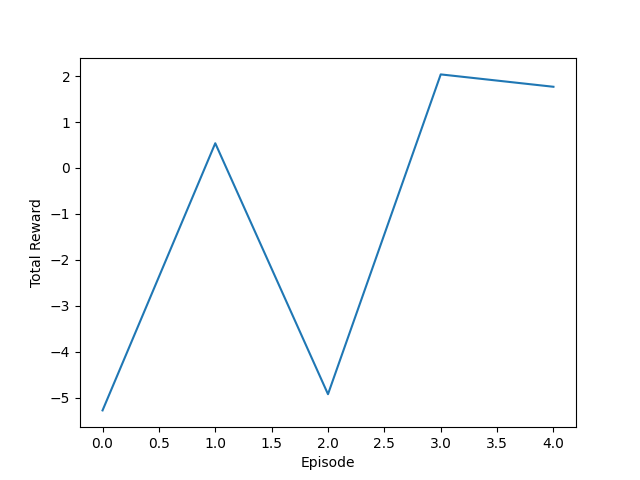
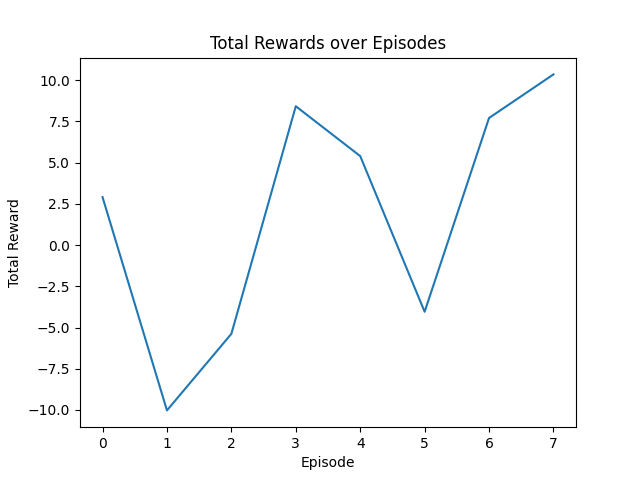
updating env

diff --git a/deep_q.py b/deep_q.py
@@ -1,151 +1,279 @@
 
+import matplotlib.pyplot as plt
 import numpy as np
 import random
 import tensorflow as tf
+import os  # To handle directory creation
+
+# Parameters
+total_steps = 100               # Total steps per episode
+gamma = 0.95                  # Discount factor for future rewards
+epsilon = 1.0                 # Initial exploration rate
+epsilon_decay = 0.995         # Decay rate for exploration probability
+epsilon_min = 0.01            # Minimum exploration probability
+batch_size = 32               # Batch size for training
+episodes = 8                  # Number of episodes to train
+target_update_freq = 5        # Frequency to update the target network
+
+# Ensure the results directory exists
+if not os.path.exists('results'):
+    os.makedirs('results')
 
 # Simple Trading Environment
-
-
 class SimpleTradingEnv:
     def __init__(self):
-        self.account_value = 10000
-        self.current_step = 0
-        self.current_price = 100  # Starting price
-        self.done = False
-        self.position = 0
+        self.initial_account_value = 10000
+        self.reset()
 
     def reset(self):
-        self.account_value = 10000
-        self.current_price = 100
+        """Resets the environment to the initial state."""
+        self.account_value = self.initial_account_value
+        self.current_price = 100  # Starting price
         self.current_step = 0
         self.done = False
-        return self.current_price
+        self.position = 0        # 0: No position, 1: Long position
+        self.entry_price = None  # Price at which the position was opened
+        return np.array([self.current_price])
 
     def step(self, action):
+        """
+        Takes an action (Buy, Sell, Hold) and updates the environment state.
+        Returns the next state, reward, done flag, and info dictionary.
+        """
         # Simulate price change
         self.current_price += np.random.randn()
         self.current_step += 1
 
-        if (action == 0):  # Buy
-            if (self.position == 0):
+        # Record whether a trade was executed
+        trade_executed = False
+        trade_action = None  # Will be 'Buy' or 'Sell' if a trade occurs
+
+        reward = 0  # Default reward
+
+        # Define actions
+        # 0: Buy
+        # 1: Sell
+        # 2: Hold
+        if action == 0:  # Buy
+            if self.position == 0:
                 self.position = 1
-                self.account_value -= self.current_price
-        elif (action == 1):  # Sell
-            if (self.position == 1):
+                self.entry_price = self.current_price
+                self.account_value -= self.current_price  # Deduct the cost
+                trade_executed = True
+                trade_action = 'Buy'
+                # No immediate reward on buying
+            else:
+                # Trying to buy when already in position; no trade executed
+                pass
+        elif action == 1:  # Sell
+            if self.position == 1:
                 self.position = 0
-                self.account_value += self.current_price
-        else:
-            pass
+                self.account_value += self.current_price  # Add the proceeds
+                trade_executed = True
+                trade_action = 'Sell'
+                # Calculate profit or loss from the trade
+                profit_loss = self.current_price - self.entry_price
+                reward = profit_loss
+                self.entry_price = None  # Reset entry price
+            else:
+                # Trying to sell when not in position; no trade executed
+                pass
+        elif action == 2:  # Hold
+            pass  # Do nothing
 
-        self.account_value = self.account_value + \
-            (self.position * self.current_price)
+        # Calculate net liquidation value
+        self.net_liq_val = self.account_value + (self.position * self.current_price)
 
-        # Reward function (placeholder, needs a proper strategy)
-        reward = self.account_value
-
-        if self.current_step > 5:
+        # Check if the episode is done
+        if self.current_step >= total_steps:
             self.done = True
+            # If holding a position, need to close it at the end of the episode
+            if self.position == 1:
+                # Sell the position
+                self.position = 0
+                self.account_value += self.current_price  # Add the proceeds
+                trade_executed = True
+                trade_action = 'Sell'
+                # Calculate profit or loss from the trade
+                profit_loss = self.current_price - self.entry_price
+                reward += profit_loss  # Add to any existing reward
+                self.entry_price = None
 
-        return self.current_price, reward, self.done, {}
+        # Include trade information in info dictionary
+        info = {'trade_executed': trade_executed, 'trade_action': trade_action}
+
+        return np.array([self.current_price]), reward, self.done, info
 
 # Create the DQN Model
-
-
 def create_model():
+    """
+    Builds a Deep Q-Network model using Keras.
+    """
     model = tf.keras.Sequential([
         tf.keras.layers.Dense(24, activation='relu', input_shape=(1,)),
         tf.keras.layers.Dense(24, activation='relu'),
-        tf.keras.layers.Dense(3, activation='linear')  # 2 actions: Buy, Sell
+        tf.keras.layers.Dense(3, activation='linear')  # 3 actions: Buy, Sell, Hold
     ])
     model.compile(loss='mse', optimizer='adam')
     return model
 
 # Replay Buffer
-
-
 class ReplayBuffer:
-    def __init__(self):
+    def __init__(self, max_size=10000):
         self.buffer = []
+        self.max_size = max_size
 
     def add(self, experience):
+        """
+        Adds a new experience to the buffer.
+        If the buffer is full, it removes the oldest experience.
+        """
         self.buffer.append(experience)
+        if len(self.buffer) > self.max_size:
+            self.buffer.pop(0)
 
     def sample(self, batch_size):
+        """
+        Samples a batch of experiences from the buffer.
+        """
         return random.sample(self.buffer, batch_size)
 
 # Training Function
-
-
 def train(replay_buffer, model, target_model, batch_size):
+    """
+    Trains the model using experiences from the replay buffer.
+    """
+    if len(replay_buffer.buffer) < batch_size:
+        return
+
     minibatch = replay_buffer.sample(batch_size)
-    for state, action, reward, next_state, done in minibatch:
-        target = reward
-        if not done:
-            target = reward + 0.95 * \
-                np.amax(target_model.predict(next_state)[0])
-        target_f = model.predict(state)
-        target_f[0][action] = target
-        model.fit(state, target_f, epochs=1, verbose=0)
+    states = np.array([exp[0] for exp in minibatch]).reshape(batch_size, -1)
+    actions = np.array([exp[1] for exp in minibatch])
+    rewards = np.array([exp[2] for exp in minibatch])
+    next_states = np.array([exp[3] for exp in minibatch]).reshape(batch_size, -1)
+    dones = np.array([exp[4] for exp in minibatch])
+
+    # Predict Q-values for current states and next states
+    q_values = model.predict(states)
+    target_q_values = target_model.predict(next_states)
+
+    # Update Q-values using the Bellman equation
+    for i in range(batch_size):
+        if dones[i]:
+            q_values[i][actions[i]] = rewards[i]
+        else:
+            q_values[i][actions[i]] = rewards[i] + gamma * np.amax(target_q_values[i])
+
+    # Train the model
+    model.fit(states, q_values, epochs=1, verbose=0)
 
 # Epsilon-Greedy Action Selection
-
-
 def select_action(state, model, epsilon):
+    """
+    Selects an action using an epsilon-greedy policy.
+    """
     if np.random.rand() <= epsilon:
-        return np.random.randint(0, action_size)
+        return np.random.randint(0, 3)  # Random action (Buy, Sell, Hold)
     else:
         q_values = model.predict(state)
         return np.argmax(q_values[0])
 
-
 # Main Training Loop
 env = SimpleTradingEnv()
-state_size = 1  # Current price
+state_size = 1   # Current price
 action_size = 3  # Buy, Sell, Hold
-batch_size = 32
 
 model = create_model()
 target_model = create_model()
 target_model.set_weights(model.get_weights())
 
 replay_buffer = ReplayBuffer()
-epsilon = 1.0
-epsilon_decay = 0.995
-epsilon_min = 0.01
-episodes = 5  # Adjust as needed
-episode_rewards = []  # To track rewards for each episode
+episode_rewards = []          # To track rewards for each episode
 
 for episode in range(episodes):
-    state = np.reshape(env.reset(), [1, state_size])
+    state = env.reset()
     total_reward = 0
     steps = 0
+
+    # Initialize lists to collect data for plotting
+    step_numbers = []
+    prices = []
+    positions = []
+    trade_indices = []    # Indices where trades were executed
+    trade_actions = []    # Actions that were executed ('Buy' or 'Sell')
+
     while True:
+        state = state.reshape(1, -1)
         action = select_action(state, model, epsilon)
-        next_state, reward, done, _ = env.step(action)
-        next_state = np.reshape(next_state, [1, state_size])
-        replay_buffer.add((state, action, reward, next_state, done))
-        state = next_state
+        next_state, reward, done, info = env.step(action)
         total_reward += reward
         steps += 1
 
-        if len(replay_buffer.buffer) > batch_size:
-            train(replay_buffer, model, target_model, batch_size)
+        # Collect data for plotting
+        step_numbers.append(env.current_step)
+        prices.append(env.current_price)
+        positions.append(env.position)
+
+        # Record actions only if a trade was executed
+        if info['trade_executed']:
+            trade_indices.append(len(step_numbers) - 1)  # Current index
+            trade_actions.append(info['trade_action'])
+
+        # Store experience in replay buffer
+        replay_buffer.add((state, action, reward, next_state, done))
+        state = next_state
+
+        # Train the model if enough samples are available
+        train(replay_buffer, model, target_model, batch_size)
+
+        # Update target network periodically
+        if steps % target_update_freq == 0:
+            target_model.set_weights(model.get_weights())
 
         if done:
             episode_rewards.append(total_reward)
-            print(
-                f"Episode: {episode + 1}, Total Reward: {total_reward}, Steps: {steps}")
+            print(f"Episode: {episode + 1}, Total Reward: {total_reward:.2f}, Steps: {steps}, Epsilon: {epsilon:.2f}")
+            print(f"Final Net Liquidation Value: {env.net_liq_val:.2f}")
+
+            # Decay epsilon after each episode
+            epsilon = max(epsilon_min, epsilon_decay * epsilon)
+
+            # Plotting trading results
+            plt.figure()
+            plt.plot(step_numbers, prices, label='Price')
+
+            # Plot executed trades
+            for idx, trade_action in zip(trade_indices, trade_actions):
+                if trade_action == 'Buy':
+                    plt.scatter(step_numbers[idx], prices[idx],
+                                color='green', marker='^', label='Buy' if 'Buy' not in plt.gca().get_legend_handles_labels()[1] else "")
+                elif trade_action == 'Sell':
+                    plt.scatter(step_numbers[idx], prices[idx],
+                                color='red', marker='v', label='Sell' if 'Sell' not in plt.gca().get_legend_handles_labels()[1] else "")
+
+            plt.xlabel('Step')
+            plt.ylabel('Price')
+            plt.title(f'Episode {episode + 1} Trading Results')
+            plt.legend()
+
+            # Add a text box with the final net liquidation value
+            textstr = f'Final Net Liquidation Value: {env.net_liq_val:.2f}'
+            props = dict(boxstyle='round', facecolor='white', alpha=0.5)
+            plt.text(0.05, 0.95, textstr, transform=plt.gca().transAxes,
+                     fontsize=10, verticalalignment='top', bbox=props)
+
+            plt.savefig(f'results/trades_episode_{episode + 1}.png')
+            plt.close()
+            print(f"Trading plot saved to results/trades_episode_{episode + 1}.png.")
+
             break
 
-    epsilon = max(epsilon_min, epsilon_decay * epsilon)
-
-
-try:
-    import matplotlib.pyplot as plt
-    plt.plot(episode_rewards)
-    plt.xlabel('Episode')
-    plt.ylabel('Total Reward')
-    plt.savefig('results/figure.png')  # Specify your path here
-    print("Plot saved to /results/figure.png.")
-except ImportError:
-    print("matplotlib is not installed. Can't plot the rewards")
+# Final plot of rewards over episodes
+plt.figure()
+plt.plot(episode_rewards)
+plt.xlabel('Episode')
+plt.ylabel('Total Reward')
+plt.title('Total Rewards over Episodes')
+plt.savefig('results/figure.png')
+plt.close()
+print("Plot saved to results/figure.png.")
